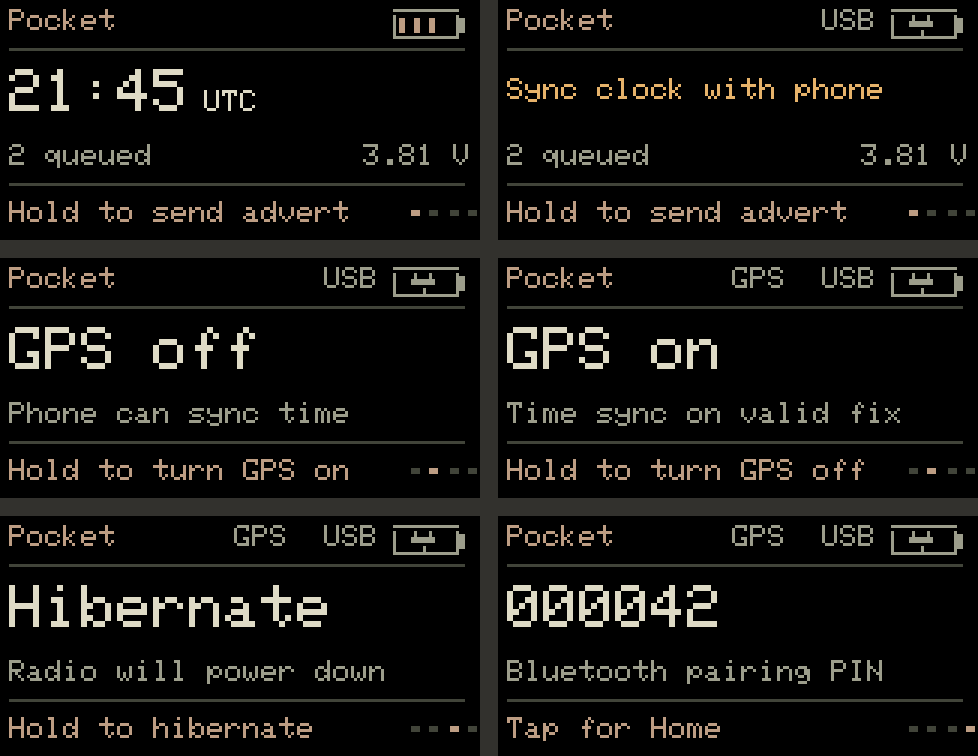
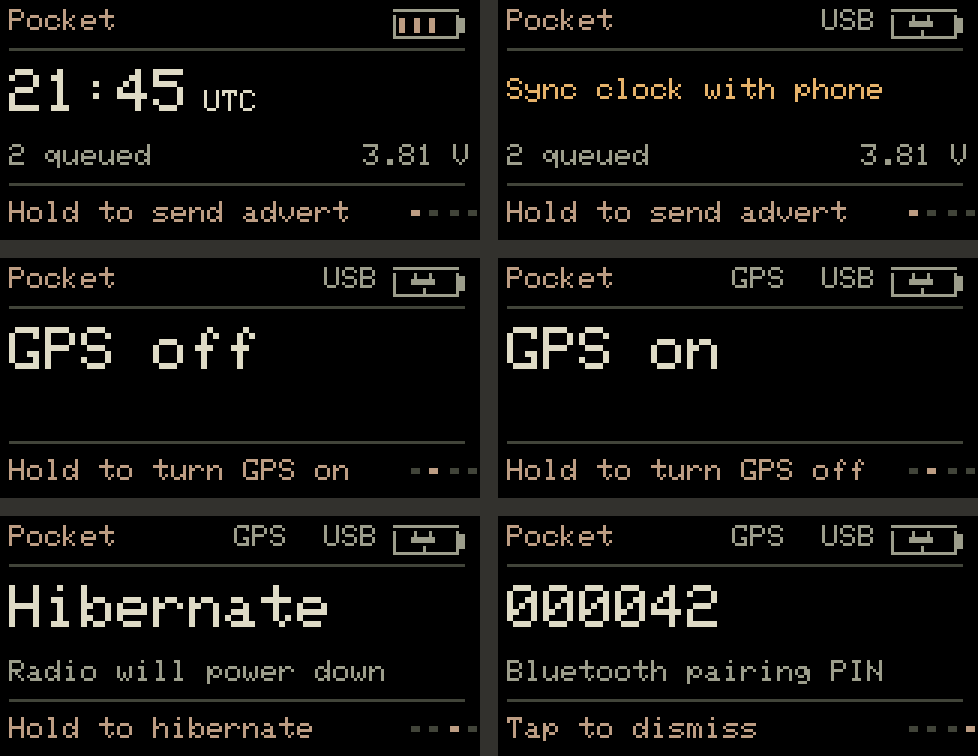
Use both T1 side buttons and hide the PIN during Bluetooth sessions

diff --git a/tests/screen.cpp b/tests/screen.cpp
@@ -18,6 +18,11 @@ struct {
   bool advert(bool flood) { ++sent; flooded=flood; return true; }
   uint32_t getBLEPin() { return pin; }
 } the_mesh;
+struct {
+  bool enabled=true, connected=false;
+  bool isEnabled() const { return enabled; }
+  bool isConnected() const { return connected; }
+} bluetooth_interface;
 struct NodePrefs { char node_name[32]="Pocket"; };
 struct SensorManager {};
 struct UITask {
@@ -43,7 +48,8 @@ struct Screen : public DisplayDriver {
   ColorVal color=0;
   std::string largeText;
   std::string zone, voltage;
-  int bars=0;
+  std::string hint, detail;
+  int dots=0, bars=0;
   bool plug=false;
   Screen() : DisplayDriver(128,64) {}
   bool isOn() override {return true;}
@@ -56,6 +62,8 @@ struct Screen : public DisplayDriver {
   void setCursor(int a,int b) override {x=int(1.25*a);y=int(1.25*b);}
   void print(const char* s) override {
     assert(x>=0 && x+int(strlen(s))*6*size<=160 && y+8*size<=80);
+    if (y==67) hint=s;
+    if (y==48) detail=s;
     if (size == 2) largeText=s;
     if (strcmp(s,"PCT")==0 || strcmp(s,"UTC")==0) zone=s;
     if (strstr(s," V")) voltage=s;
@@ -63,6 +71,7 @@ struct Screen : public DisplayDriver {
   }
   void fillRect(int a,int b,int w,int h) override {
     assert(a>=0 && b>=0 && a+w<=128 && b+h<=64);
+    if (b==56 && w==3) ++dots;
     if (b==5 && w==2 && h==4 && a>=107 && a<=119) ++bars;
     if (a==110 && b==6 && w==7 && h==2) plug=true;
     printf("R %u %d %d %d %d\n",color,int(a*1.25),int(b*1.25),int(w*1.25),int(h*1.25));
@@ -117,9 +126,12 @@ int main(){
 #endif
   board.usb=true;
   home.handleInput(KEY_NEXT);
+  display.detail.clear();
   puts("PAGE gps-off");home.render(display);
+  assert(display.detail.empty() && display.hint=="Hold to turn GPS on");
   home.handleInput(KEY_ENTER);assert(task.gps);
   puts("PAGE gps-on");home.render(display);
+  assert(display.detail.empty() && display.hint=="Hold to turn GPS off");
   home.handleInput(KEY_NEXT);
   puts("PAGE hibernate");home.render(display);
   home.handleInput(KEY_NEXT);
@@ -128,15 +140,60 @@ int main(){
   assert(!home.handleInput(KEY_ENTER));
   home.poll();
   assert(!task.shutdownRequested && the_mesh.sent==1 && task.gps);
-  the_mesh.pin=0;
-  display.largeText.clear();
-  puts("PAGE no-pin");home.render(display);
-  assert(display.largeText.empty());
+  auto draw = [&]() {
+    display.dots=0;
+    display.largeText.clear();
+    home.render(display);
+    return display.largeText;
+  };
+  // USB is present. Only a secured Bluetooth session hides the PIN.
+  puts("PAGE pairing");
+  home.wakeForButton();
+  assert(draw()=="000042" && display.hint=="Tap to dismiss" && display.dots==4);
+  puts("PAGE dismissal-check");
+  assert(!home.handleInput(KEY_ENTER));
+  home.handleInput(KEY_PREV);
+  assert(draw().find(':')!=std::string::npos);
+  home.wakeForButton();
+  assert(draw().find(':')!=std::string::npos);
+  home.handleInput(KEY_PREV);
+  assert(draw()=="000042");
+  bluetooth_interface.connected=true;
+  puts("PAGE bluetooth-connected");
+  // Catch a connection arriving between the input poll and the next paint.
+  assert(draw().find(':')!=std::string::npos && display.dots==3);
+  home.handleInput(KEY_ENTER);
+  assert(the_mesh.sent==1);
+  assert(home.updatePairingState());
+  assert(!home.updatePairingState());
+  home.wakeForButton();
+  assert(draw().find(':')!=std::string::npos);
+  home.handleInput(KEY_PREV);assert(draw()=="Hibernate");
+  home.handleInput(KEY_NEXT);assert(draw().find(':')!=std::string::npos);
+  home.handleInput(KEY_NEXT);assert(draw()=="GPS on");
+  home.handleInput(KEY_NEXT);assert(draw()=="Hibernate");
+  home.handleInput(KEY_NEXT);assert(draw().find(':')!=std::string::npos);
+
+  // Disconnecting while awake leaves the current page alone, then promotes
+  // pairing once on the next physical wake. Either tap can dismiss the prompt.
   home.handleInput(KEY_NEXT);
-  puts("PAGE home-again");home.render(display);
-  assert(display.largeText.find(':')!=std::string::npos);
-  home.handleInput(KEY_PREV);
-  home.handleInput(KEY_PREV);
+  bluetooth_interface.connected=false;
+  assert(!home.updatePairingState() && draw()=="GPS on");
+  home.resetPage();  // Explicit USB request to show Home.
+  assert(draw().find(':')!=std::string::npos);
+  home.wakeForButton();assert(draw()=="000042");
+  home.handleInput(KEY_NEXT);assert(draw().find(':')!=std::string::npos);
+  home.wakeForButton();assert(draw().find(':')!=std::string::npos);
+  home.handleInput(KEY_PREV);assert(draw()=="000042");
+  bluetooth_interface.enabled=false;
+  assert(home.updatePairingState());
+  home.wakeForButton();assert(draw().find(':')!=std::string::npos && display.dots==3);
+  bluetooth_interface.enabled=true;
+  the_mesh.pin=0;
+  assert(!home.updatePairingState());
+  home.wakeForButton();assert(draw().find(':')!=std::string::npos && display.dots==3);
+  home.handleInput(KEY_PREV);assert(draw()=="Hibernate");
+  assert(the_mesh.sent==1 && task.gps && !task.shutdownRequested);
   task.pressed=true;home.handleInput(KEY_ENTER);home.poll();assert(!task.shutdownRequested);
   task.pressed=false;home.poll();assert(task.shutdownRequested);
   home.resetPage();board.usb=false;

diff --git a/update.py b/update.py
@@ -34,7 +34,7 @@ def apply_and_test(repo, profile, flags):
     for patch in patches:
         if profile == "clock" and patch.name != "01-clock.patch":
             continue
-        if profile == "pocket" and patch.name not in ("01-clock.patch", "02-screen.patch", "06-advert.patch"):
+        if profile == "pocket" and patch.name not in ("01-clock.patch", "02-screen.patch", "06-advert.patch", "07-pocket-controls.patch"):
             continue
         run("git", "apply", "--check", patch, cwd=repo)
         run("git", "apply", patch, cwd=repo)
@@ -45,6 +45,9 @@ def apply_and_test(repo, profile, flags):
         run("c++","-std=c++11","-funsigned-char",*flags,"-I",KIT/"tests","-I",repo/"src","-I",repo/"variants/heltec_t1",
             KIT/"tests/screen.cpp","-o",repo/"screen-test",cwd=repo)
         run(repo/"screen-test",stdout=subprocess.DEVNULL)
+        run("c++", "-std=c++11", "-I", repo/"variants/heltec_t1",
+            KIT/"tests/buttons.cpp", "-o", repo/"buttons-test", cwd=repo)
+        run(repo/"buttons-test")
     if profile == "dual":
         run("c++", "-std=c++11", "-I", KIT/"tests", "-I", repo/"src", "-I", repo/"variants/heltec_t1",
             KIT/"tests/ports.cpp", "-o", repo/"port-test", cwd=repo)
@@ -73,8 +76,8 @@ def main():
     if args.preset not in ("community", "nearby-pacific"):
         parser.error("Unknown preset")
     personal = args.preset == "nearby-pacific"
-    suffix = ({"clock":"clock1","pocket":"pocket4","dual":"dual5"} if personal else
-              {"clock":"clock1","pocket":"ble1","dual":"share1"})[args.profile]
+    suffix = ({"clock":"clock1","pocket":"pocket5","dual":"dual6"} if personal else
+              {"clock":"clock1","pocket":"ble2","dual":"share2"})[args.profile]
     flags = [] if args.profile=="clock" else ["-DT1_PACIFIC_TIME" if personal else "-DT1_FLOOD_ADVERT"]
     version = f"{tag.removeprefix('companion-')}-t1{suffix}"
     if len(version)>19: raise ValueError("Version exceeds companion wire field")
@@ -90,7 +93,7 @@ def main():
             print(json.dumps(dict(tag=tag,commit=commit),indent=2))
             return
         apply_and_test(repo,args.profile,flags)
-        print(f"{tag} {commit} | {args.profile} patches and clock tests passed",flush=True)
+        print(f"{tag} {commit} | {args.profile} patches and host tests passed",flush=True)
         if args.check_only: return
         pio=shutil.which("pio") or shutil.which("platformio")
         if not pio: raise SystemExit("Install PlatformIO Core and make pio available on PATH")

diff --git a/tests/buttons.cpp b/tests/buttons.cpp
@@ -1,0 +1,58 @@
+#include <cassert>
+#include <T1PocketButtons.h>
+
+int main() {
+  using B = T1PocketButtons;
+  B buttons;
+  uint32_t now = UINT32_MAX - 350;  // Test gestures across the millisecond rollover.
+  auto sample = [&](B::Keys keys, uint32_t elapsed) {
+    now += elapsed;
+    return buttons.poll(keys, now);
+  };
+  auto tap = [&](B::Keys key, B::Event expected) {
+    assert(sample(key, 2)==B::None);
+    assert(sample(key, 26)==B::None);
+    assert(sample(B::Released, 45)==B::None);
+    assert(sample(B::Released, 25)==expected);
+    assert(!buttons.isPressed());
+  };
+  auto hold = [&](B::Keys key, B::Event expected) {
+    assert(sample(key, 10)==B::None);
+    assert(buttons.isPressed());
+    assert(sample(key, 25)==B::None);
+    assert(sample(key, 974)==B::None);
+    assert(sample(key, 1)==expected);
+    assert(sample(key, 2000)==B::None);
+    assert(sample(B::Released, 5)==B::None);
+    assert(buttons.isPressed());
+    assert(sample(B::Released, 25)==B::None);
+    assert(!buttons.isPressed());
+  };
+  // Switch bounce shorter than a stable press creates no gesture.
+  assert(sample(B::Upper, 5)==B::None);
+  assert(sample(B::Released, 6)==B::None);
+  assert(sample(B::Released, 25)==B::None);
+  tap(B::Upper, B::Next);
+  tap(B::Upper, B::Next);
+  tap(B::Lower, B::Previous);
+  hold(B::Upper, B::UpperHold);
+  hold(B::Lower, B::LowerHold);
+
+  // A short overlap cancels both gestures, including the last release.
+  assert(sample(B::Lower, 10)==B::None);
+  assert(sample(B::Lower, 25)==B::None);
+  assert(sample(B::Both, 2)==B::None);
+  assert(sample(B::Upper, 4)==B::None);
+  assert(sample(B::Upper, 1500)==B::None);
+  assert(sample(B::Upper, 1500)==B::None);
+  assert(sample(B::Released, 2)==B::None);
+  assert(sample(B::Released, 25)==B::None);
+  // Connecting while a PIN is showing cancels any in-flight gesture.
+  assert(sample(B::Lower, 50)==B::None);
+  assert(sample(B::Lower, 26)==B::None);
+  buttons.cancelUntilRelease();
+  assert(sample(B::Lower, 1500)==B::None);
+  assert(sample(B::Released, 2)==B::None);
+  assert(sample(B::Released, 25)==B::None);
+  tap(B::Lower, B::Previous);
+}

diff --git a/README.md b/README.md
@@ -4,7 +4,9 @@ An independent MeshCore companion firmware for the **Heltec Mesh Node T1** with 
 
 ## On the node
 
-Tap the user button to wake Home. Single taps advance through Home, GPS, Hibernate and Pairing. Double-tap to go back. Hold on Home to send one advert after clock sync. Hold on GPS to switch the receiver, or hold and release on Hibernate to power down. Pairing displays the current Bluetooth PIN. The dim screen goes dark after ten seconds, including on USB. MeshCore’s rescue hold takes precedence in the first eight seconds after boot.
+Tap either side button to wake the display. On a lit screen, tap the upper button to go forward or the lower button to go back. Hold either for one second to use the action on the current page. Home sends an advert after clock sync, GPS switches the receiver on or off, and Hibernate powers down after release. The screen sleeps after ten seconds of inactivity, including on USB. During the first eight seconds after boot, holding the upper button enters MeshCore rescue mode. [Side button diagram, page 5](https://resource.heltec.cn/download/Mesh_Node_T1/Datasheet/Mesh-Node-T1.pdf#page=5)
+
+When Bluetooth is available and a phone is disconnected, the first button wake shows the six-digit pairing PIN. Tap either button to dismiss it. Later wakes open Home. To see the PIN again, tap the lower button from Home. As soon as a Bluetooth connection is secured, the PIN disappears and both buttons skip the Pairing page. Disconnecting leaves the screen asleep if it was asleep. USB charging or a wired session alone does not hide the PIN.
 
 Each restart asks for a phone or computer time sync. When the owner has enabled GPS, a fresh dated fix can also set time. The firmware uses the local companion’s clock-sync command and accepts corrections backwards. Mesh timestamps use UTC in both presets.
 
@@ -35,7 +37,7 @@ On a correctly identified T1, an application-only MeshCore update preserves the 
 
 ## Following MeshCore releases
 
-`upstream.json` pins the reviewed release. To test the latest stable release on a computer, run `python3 update.py --latest --check-only` and then `python3 update.py --latest --out builds`. Host checks exercise clock arithmetic, screen behaviour and companion-port ownership. Full builds cross-check the UF2 pages against the Intel HEX, the Nordic application package against the UF2, and the combined build’s USB-update entry point against its ELF.
+`upstream.json` pins the reviewed release. To test the latest stable release on a computer, run `python3 update.py --latest --check-only` and then `python3 update.py --latest --out builds`. Host checks exercise clock arithmetic, button timing, pairing visibility, screen navigation and companion-port ownership. Full builds cross-check the UF2 pages against the Intel HEX, the Nordic application package against the UF2, and the combined build’s USB-update entry point against its ELF.
 
 The included GitHub Actions workflow checks for a new stable companion tag daily and on manual dispatch. A new tag triggers five builds covering the supported profiles and presets. A separate job opens a draft PR that updates the pinned tag and commit. Its description links to the test run and records success or failure. Conflicts stay visible for a maintainer to port and retest. Pull requests run the checks again when a contributor pushes changes. Review and merge on the repository’s default branch after a T1 hardware check.
 
